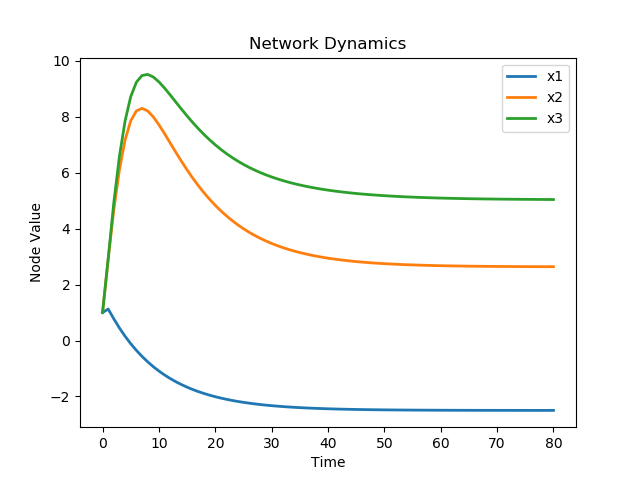
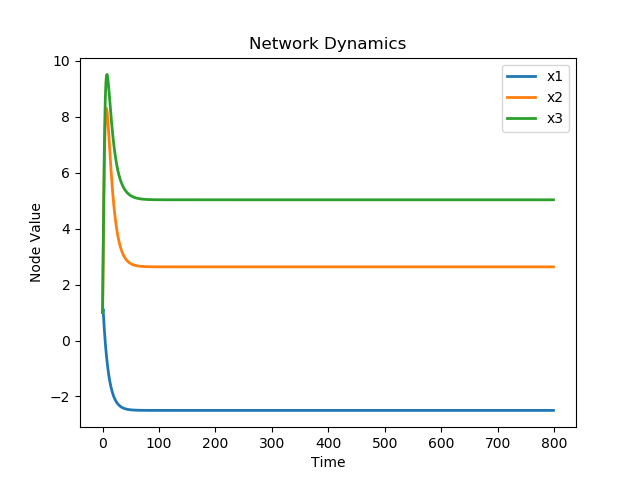
optimized the function

diff --git a/workbook.py b/workbook.py
@@ -4,6 +4,7 @@ import numpy as np
 from importlib import reload
 import networkx as nx
 import matplotlib.pyplot as plt
+import time
 
 if __name__ == "__main__":
     reload(s)
@@ -68,17 +69,19 @@ test stuff
 
     G = s.DirectedGraph(B, (a,f), labels=labels)
     # G.iterate(80, np.random.random(G.n), graph=True, save_img=True, title="3 nodes")
-    x = G.iterate(80, [1,1,1], graph=True, save_img=True, title="CGNN")
-    print(x)
+    s = time.time()
+    x = G.iterate(800, [1,1,1], graph=True, save_img=True, title="CGNN")
+    e = time.time()
+    print(e-s)
     # print(G.eigen_centrality())
 
-    G.specialize(['x2', 'x3'], verbose=False)
-    G.iterate(80, np.random.random(G.n), graph=True, save_img=True, title='spec on x2, x3')
+    # G.specialize(['x2', 'x3'], verbose=False)
+    # G.iterate(80, np.random.random(G.n), graph=True, save_img=True, title='spec on x2, x3')
     # print(G.eigen_centrality())
 
-    G.specialize(['x1.1', 'x1.2', 'x2'], verbose=False)
-    G.iterate(80, np.random.random(G.n)*10, graph=True, save_img=True, title='spec on x11, x12, x2')
-    print(G.eigen_centrality())
+    # G.specialize(['x1.1', 'x1.2', 'x2'], verbose=False)
+    # G.iterate(80, np.random.random(G.n)*10, graph=True, save_img=True, title='spec on x11, x12, x2')
+    # print(G.eigen_centrality())
 
     # N = nx.DiGraph(G.A.T)
     # nx.draw_networkx_labels(N, pos=nx.spring_layout(N), labels=G.labeler)

diff --git a/specializer.py b/specializer.py
@@ -89,7 +89,7 @@ class DirectedGraph:
 
         # here we unpack the different parts of the dynamic function
         a,f = self.dynamics
-        # F = np.array([None]*self.n)
+
         F = [None]*self.n
         for i in range(self.n):
             o_i = self.origination(i)
@@ -112,15 +112,16 @@ class DirectedGraph:
         # grab the iterative funciton
         a, f = self.set_dynamics()
         G = lambda t: [a[self.origination(k)](t[k]) + f[k](t) for k in range(self.n)]
+        
         # initialize an array with the initial condition
-        t = [initial_condition]
-        for _ in range(iters):
-            t.append(G(t[-1]))
-
+        t = [None]*iters
+        t[0] = initial_condition
+        for i in range(1,iters):
+            t[i] = G(t[i-1])
         t = np.array(t)
 
         if graph:
-            domain = np.arange(iters+1)
+            domain = np.arange(iters)
             for i in range(self.n):
                 plt.plot(domain, t[:,i], label=self.labeler[i], lw=2)
             plt.xlabel('Time')
